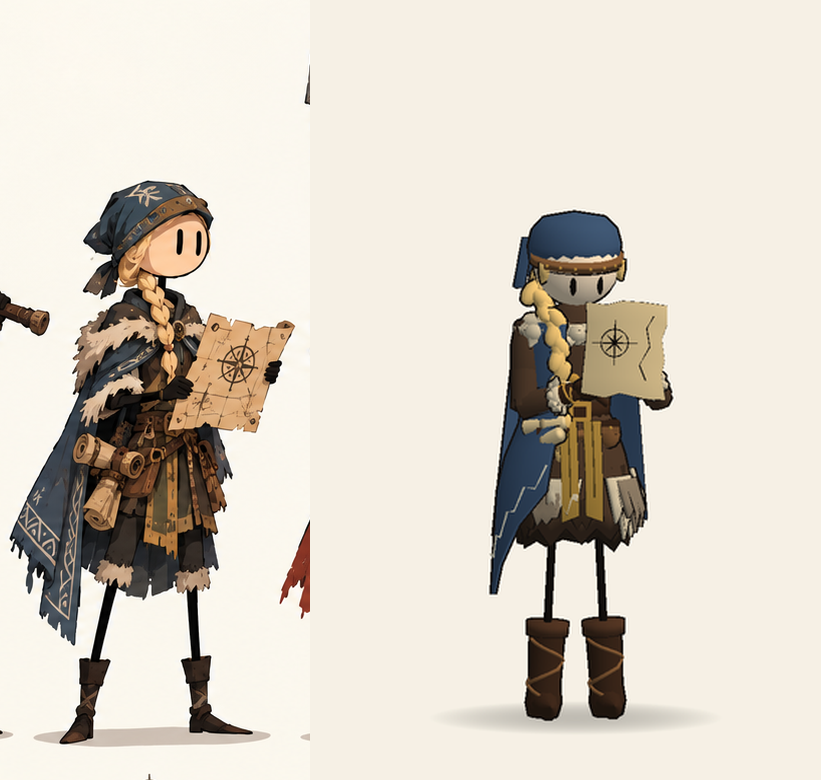
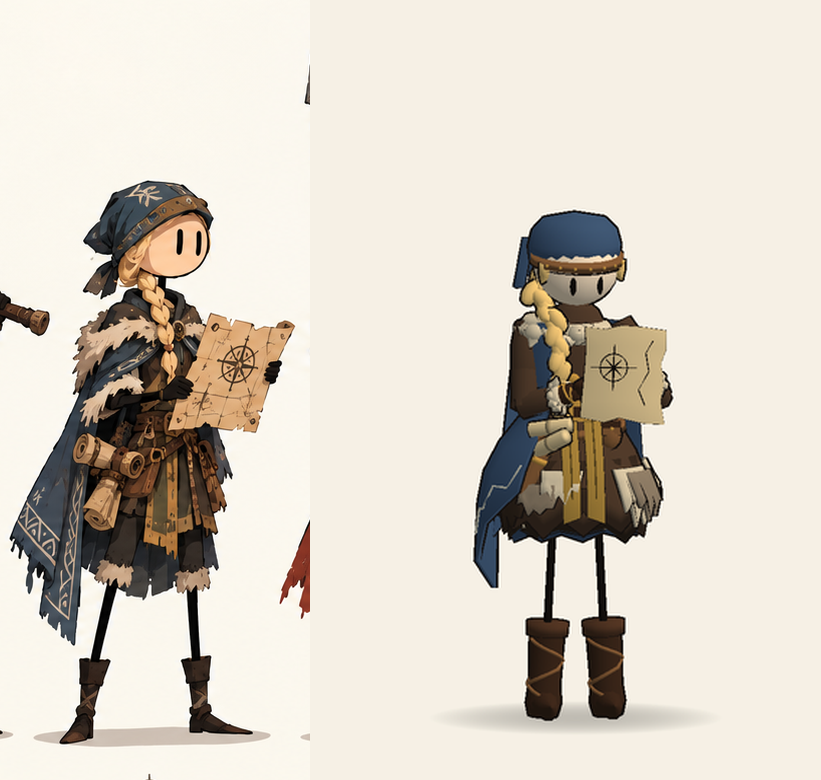
Odin's Coin characters: Navigator polish pass 1
A wider, fuller skirt with a blue under-skirt that stays inside it and
shows a fur-trimmed hem below; the chart held lower, at chest height; a
wider shoulder drape that still leaves the brown skirt and ochre apron
showing in front; the chart rolls moved forward onto the hip.

Claude-Session: https://claude.ai/code/session_01SCdejJ1UF8RUxAkkFhZXGU

Changed region(s): [[0.5786, 0.3692, 0.8222, 0.7692]]

diff --git a/OdinsCoin/Assets/Scripts/Characters/Garments.cs b/OdinsCoin/Assets/Scripts/Characters/Garments.cs
@@ -520,7 +520,7 @@ namespace OdinsCoin
                     float v = r / (float)(rows - 1), u = c / (float)(cols - 1);
                     float y = f.shoulderY + 0.04f * s - v * hang[c];
                     // From the front of the shoulder (u = 0) round to the side (u = 1), widening as it falls.
-                    float ang = Mathf.Lerp(0.35f, 1.55f, u) + v * 0.15f;
+                    float ang = Mathf.Lerp(0.55f, 2.1f, u) + v * 0.2f;
                     float rad = Mathf.Max(f.TorsoRadius(Mathf.Max(y, f.waist)), d.SkirtRadius(y)) + 0.035f * s + v * 0.05f * s;
                     grid[r, c] = new Vector3(Mathf.Sin(ang) * rad, y, Mathf.Cos(ang) * rad * (f.depth + 0.1f));
                 }
@@ -544,6 +544,18 @@ namespace OdinsCoin
             var f = d.fit;
             float s = d.S;
             d.Add(Joints.Body, d.pal.fur, CharacterKit.FurRing(new Vector3(0f, f.shoulderY - 0.005f * s, 0f), f.chestR * 0.95f, f.depth + 0.05f, 0.055f * s, 16, 0.07f * s, d.seed + 54, 0.8f));
+        }
+
+        /// <summary>An under-skirt in the accent colour peeking out below the skirt, its hem trimmed with fur tufts.</summary>
+        public static void Underskirt(Dresser d, float below)
+        {
+            var f = d.fit;
+            float s = d.S;
+            if (!d.hasSkirt) return;
+            float top = d.skirtBottom + 0.15f * s, hem = d.skirtBottom - below * s;
+            // Stays inside the skirt; only its hem shows below.
+            d.Add(Joints.Body, d.pal.accent, CharacterKit.RaggedSkirt(top, d.SkirtRadius(top) * 0.9f, hem, d.skirtBottomR * 0.93f, d.skirtDepth - 0.03f, 20, 0.03f * s, d.seed + 91));
+            d.Add(Joints.Body, d.pal.fur, CharacterKit.FurRing(new Vector3(0f, hem + 0.012f * s, 0f), d.skirtBottomR * 0.92f, d.skirtDepth - 0.03f, 0.022f * s, 18, 0.03f * s, d.seed + 92, 1f));
         }
 
         /// <summary>A soft cloth bandana tied over the head, a studded leather band across the brow, a rune on the front,
@@ -598,8 +610,8 @@ namespace OdinsCoin
             var f = d.fit;
             float s = d.S;
             float y = f.waist - 0.1f * s;
-            float x = f.waistR * 1.1f + 0.02f * s;
-            var at = new Vector3(x, y, d.SkirtRadius(y) * 0.2f);
+            float x = f.waistR * 1.0f + 0.02f * s;
+            var at = new Vector3(x, y, d.SkirtRadius(y) * d.skirtDepth * 0.65f);
             // The case: a leather tube hanging at a slant.
             d.Add(Joints.Body, d.pal.leather, MeshData.Lathe(new[] { new Vector2(0.03f * s, -0.12f * s), new Vector2(0.032f * s, 0.1f * s) }, 10)
                 .Transformed(at + new Vector3(0.02f * s, -0.05f * s, 0.03f * s), Quaternion.Euler(0f, 0f, 25f), Vector3.one));

diff --git a/OdinsCoin/Assets/Scripts/Characters/HeroModel.cs b/OdinsCoin/Assets/Scripts/Characters/HeroModel.cs
@@ -330,10 +330,10 @@ namespace OdinsCoin
                         {
                             float u = c / (float)(cols - 1) - 0.5f, v = r / (float)(rows - 1);
                             float torn = (r == 0 || r == rows - 1 || c == 0 || c == cols - 1) ? ((float)rng.NextDouble() - 0.5f) * 0.02f : 0f;
-                            grid[r, c] = new Vector3((u * 0.26f + 0.06f + torn) * s, (0.2f - v * 0.3f + torn) * s, (0.03f + 0.02f * Mathf.Cos(u * 3f)) * s);
+                            grid[r, c] = new Vector3((u * 0.26f + 0.06f + torn) * s, (0.12f - v * 0.3f + torn) * s, (0.03f + 0.02f * Mathf.Cos(u * 3f)) * s);
                         }
                     d.Add(Joints.OffHand, d.pal.parchment, CharacterKit.Sheet(grid, Vector3.forward, 0.006f * s));
-                    var rose = new Vector3(0.09f * s, 0.07f * s, 0.052f * s);
+                    var rose = new Vector3(0.09f * s, -0.01f * s, 0.052f * s);
                     var ring = new Vector3[17];
                     var rr = new float[17];
                     for (int i = 0; i < ring.Length; i++) { float a = i / 16f * Mathf.PI * 2f; ring[i] = rose + new Vector3(Mathf.Cos(a), Mathf.Sin(a), 0f) * 0.045f * s; rr[i] = 0.002f * s; }
@@ -343,7 +343,7 @@ namespace OdinsCoin
                         float a = k * Mathf.PI / 4f, len = (k % 2 == 0 ? 0.075f : 0.04f) * s;
                         d.Add(Joints.OffHand, d.pal.ink, MeshData.Tube(new[] { rose, rose + new Vector3(Mathf.Cos(a), Mathf.Sin(a), 0f) * len }, new[] { 0.0035f * s, 0.001f * s }, 4), false);
                     }
-                    var coast = new[] { new Vector3(-0.04f, 0.16f, 0.05f), new Vector3(-0.01f, 0.12f, 0.052f), new Vector3(-0.03f, 0.06f, 0.052f), new Vector3(0.01f, 0.0f, 0.052f), new Vector3(-0.02f, -0.05f, 0.05f) };
+                    var coast = new[] { new Vector3(-0.04f, 0.08f, 0.05f), new Vector3(-0.01f, 0.04f, 0.052f), new Vector3(-0.03f, -0.02f, 0.052f), new Vector3(0.01f, -0.08f, 0.052f), new Vector3(-0.02f, -0.13f, 0.05f) };
                     for (int i = 0; i < coast.Length; i++) coast[i] *= s;
                     d.Add(Joints.OffHand, d.pal.ink, CharacterKit.ZigZag(coast, Vector3.right, 0.004f * s, 0.002f * s), false);
                     break;

diff --git a/OdinsCoin/Assets/Scripts/Characters/Outfits.cs b/OdinsCoin/Assets/Scripts/Characters/Outfits.cs
@@ -91,8 +91,9 @@ namespace OdinsCoin
                 {
                     Garments.ShinBoots(d, 0.3f);
                     Garments.Gloves(d);
-                    Garments.LongSkirt(d, 0.33f, 1.35f);
-                    Garments.FurSkirt(d, 0.52f, 0.36f);
+                    Garments.LongSkirt(d, 0.36f, 1.75f);
+                    Garments.Underskirt(d, 0.05f);
+                    Garments.FurSkirt(d, 0.55f, 0.4f);
                     Garments.Tunic(d, false);
                     Garments.LongSleeves(d);
                     Garments.RaiderBelt(d, 2);
